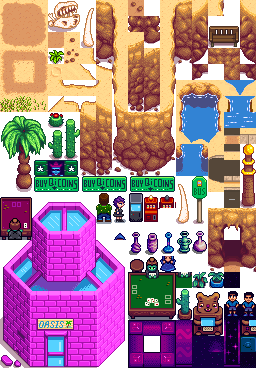
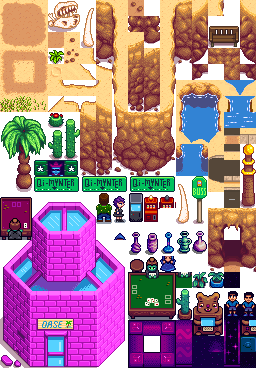
Oversett _town.png-filer ; Oversett Cursors.png ; Oversett DesertTiles.png ; Legg til manglende komma i Town.json

Changed region(s): [[0.125, 0.4783, 0.6875, 0.5082], [0.1562, 0.8668, 0.25, 0.8967], [0.75, 0.5082, 0.8125, 0.538]]

diff --git a/Gjøremålsliste.md b/Gjøremålsliste.md
@@ -163,26 +163,26 @@
   - [ ] Movies.png
   - [ ] skillTitles.png
 - [ ] Maps
-  - [ ] DesertTiles.png
+  - [x] DesertTiles.png
   - [ ] Festivals.png
   - [x] TownIndoors.png
   - [x] bathhouse_tiles.png
   - [x] coopTiles.png
   - [x] fall_beach.png
   - [x] fall_outdoorsTileSheet.png
-  - [ ] fall_town.png
+  - [x] fall_town.png
   - [ ] samshowtiles.png
   - [x] spring_beach.png
   - [x] spring_outdoorsTileSheet.png
-  - [ ] spring_town.png
+  - [x] spring_town.png
   - [x] springobjects.png
   - [x] summer_beach.png
   - [x] summer_outdoorsTileSheet.png
-  - [ ] summer_town.png
+  - [x] summer_town.png
   - [ ] townInterior.png
   - [x] winter_beach.png
   - [x] winter_outdoorsTileSheet.png
-  - [ ] winter_town.png
+  - [x] winter_town.png
 - [x] Minigames
   - [x] TitleButtons.png
   - [x] jojacorps.png
